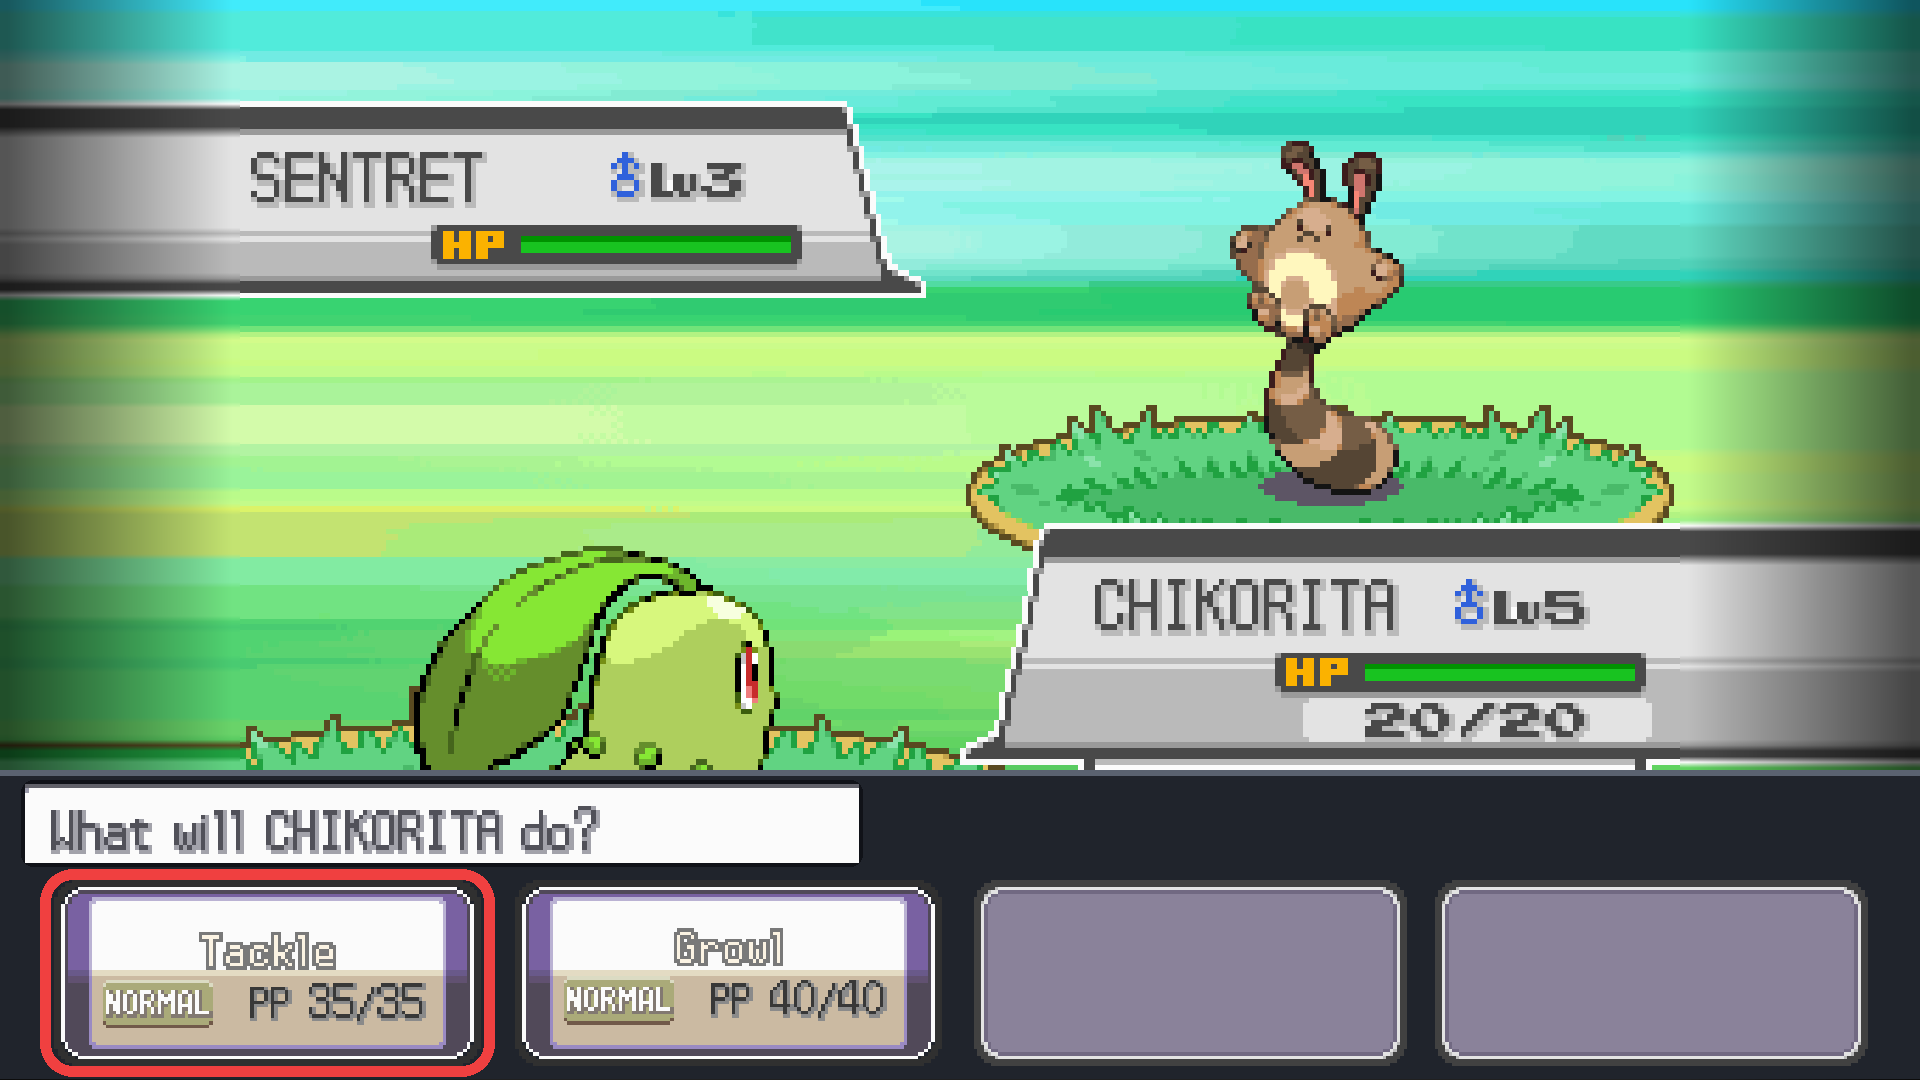
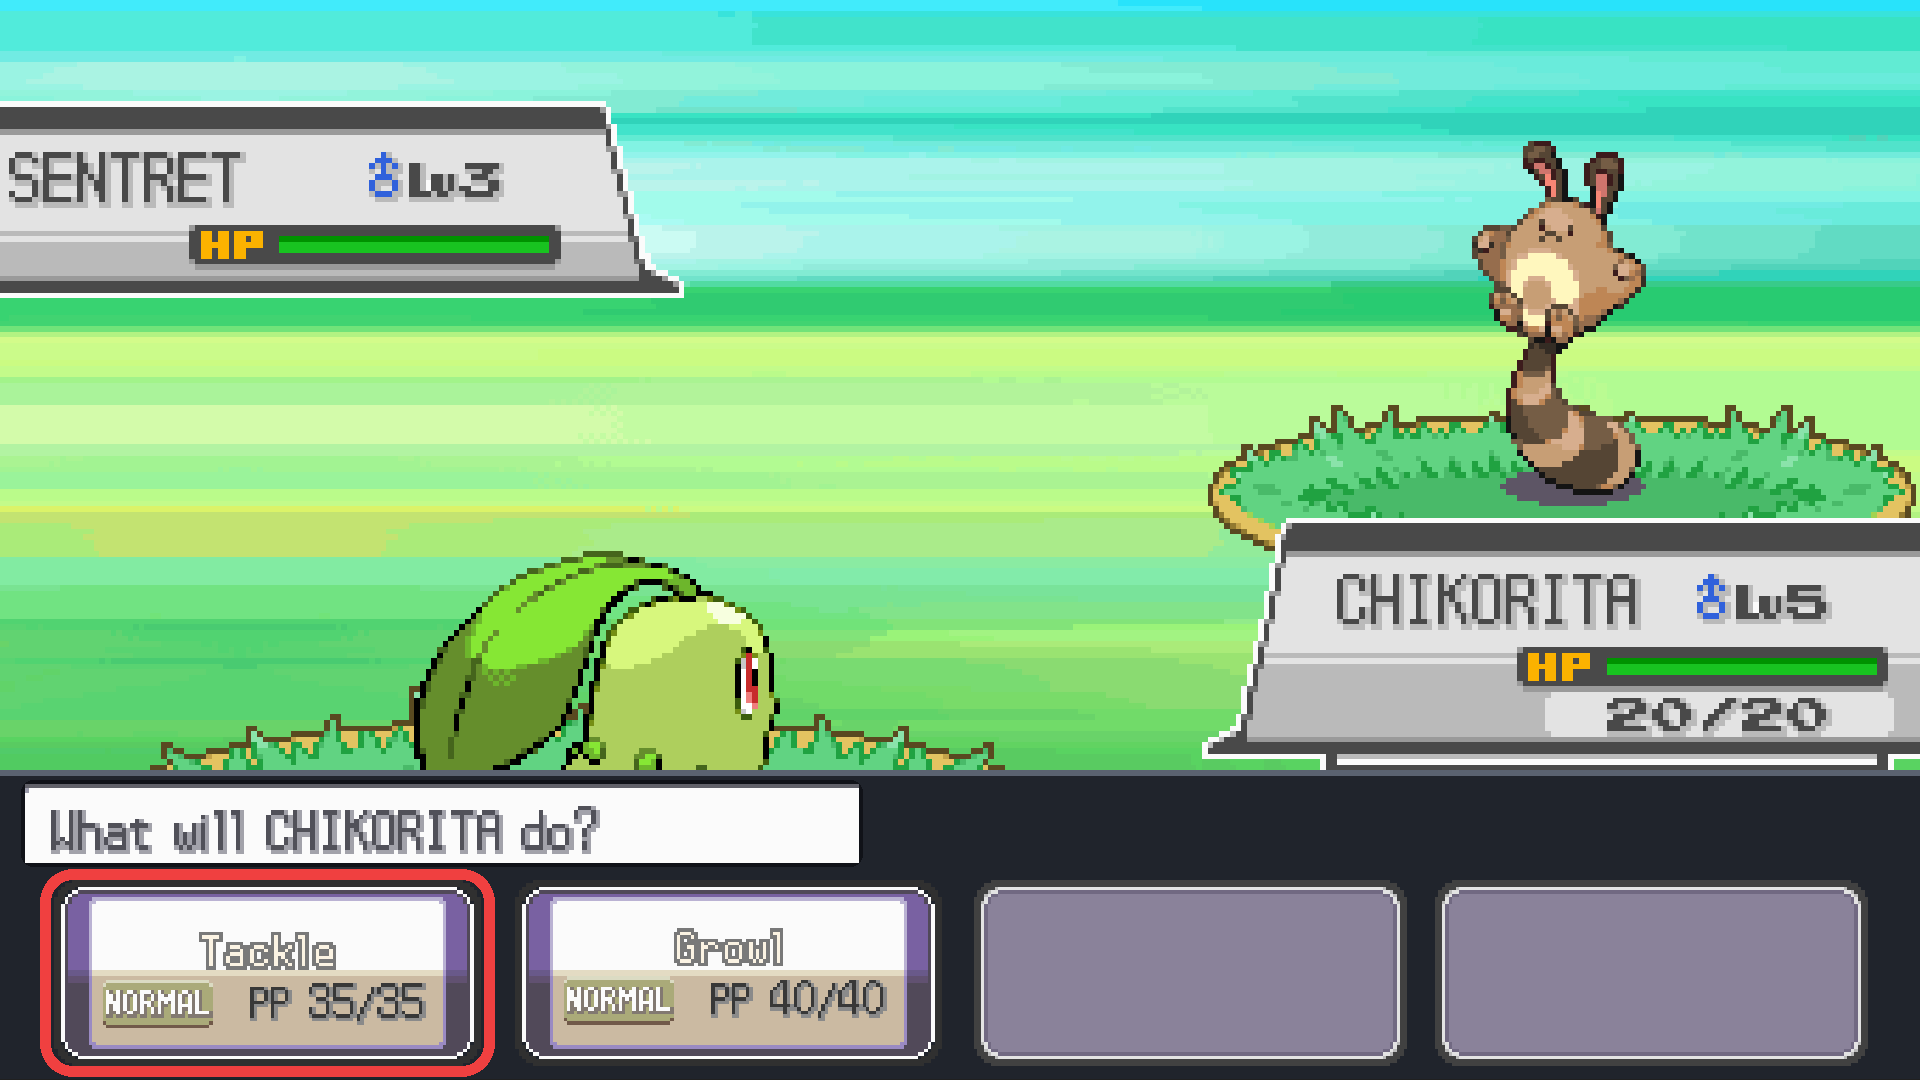
Update the README screenshots to v0.4.2
Taken through the real window at 1920x1080 (world detail 1080, clock at
noon): the battles now show the widescreen battle view.

Claude-Session: https://claude.ai/code/session_018sznRzvHgKxqUzp716EXfc

diff --git a/README.md b/README.md
@@ -26,8 +26,8 @@ accept such work.
 
 ## Screenshots
 
-The overworld drawn across a 16:9 screen, and battles with the touch-screen
-buttons laid out along the bottom (one screen, played with a controller):
+The overworld and battles drawn across a 16:9 screen, with the touch-screen
+buttons laid out along the bottom in battle (one screen, played with a controller):
 
 | | |
 |---|---|
